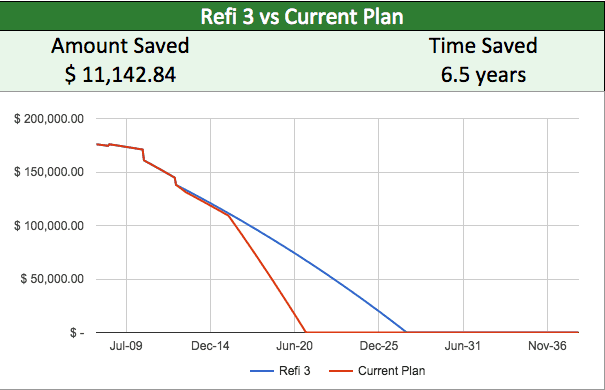
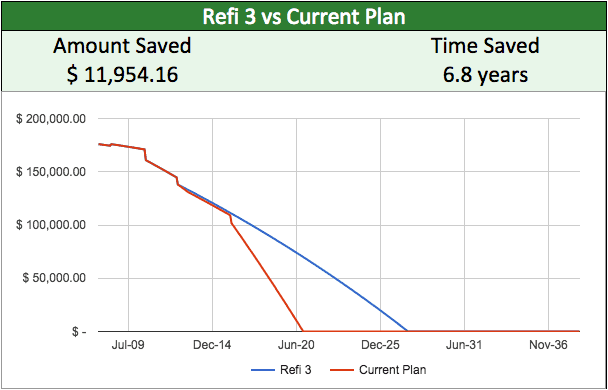
refi-post

diff --git a/_posts/2016-04-10-how-we-saved-on-our-mortgage.md b/_posts/2016-04-10-how-we-saved-on-our-mortgage.md
@@ -1,0 +1,205 @@
+---
+layout: post
+title: How we saved $160,000 on our mortgage
+author: Chris Durheim
+author_email: chris@keepthrifty.com
+categories: [mortgages]
+image: /img/old-bank.jpg
+---
+
+We bought our house in 2007 at a purchase price of $219,900. While I was pleased with the price, we had huge sticker shock when we figured out the total between our down payment and thirty years of mortgage payments was going to be __$450,000__!
+
+After putting down 20% ($44,000), we still had $405,000 left in mortgage payments to make over the next thirty years. I knew there had to be a way to bring that down, so I quickly got to work figuring out how to pay less.
+
+> Note: there's a bunch of mortgage math in this article; for a refresher on the basics, check out my [Mortgage Math 101][mortgage-math-101] post.
+
+# How does $219,900 turn into $450,000? #
+
+Here's the breakdown:
+
+- Down Payment: $43,980 (20%)
+- Mortgage: $405,470
+  - Principal payments: $175,900
+  - Interest payments: $229,570
+
+For our home, we paid down 20%, leaving us with a $175,900 mortgage.
+
+At 6.625% for a 30-year fixed mortgage, the total interest paid is $229,570. That's right - __the total interest is more than the actual purchase price of the house__.
+
+_Such is the nature of buying things you don't technically have the money for..._
+
+Because the down payment and principal payments cover the purchase price (which is fixed), the only flexible number here is the interest payment.
+
+With only that one option, I got to work using the 3 methods I had to bring that interest payment down :)
+
+# 1. Refinance with a lower rate #
+
+Refinancing is working with a bank to "re-do" your mortgage. If interest rates have dropped, you can get a new mortgage at the lower rate.
+
+_Lower rate = less interest payment every month_
+
+So, our first move on our mortgage was to refinance from a 6.625% mortgage to a 5.875% mortgage. In theory, that gets you this:
+
+![Original mortgage vs refinance: total cost drops from $405,471 to $374,585][original-vs-refinance]
+
+By refinancing to a slightly lower rate, we would save roughly $31,000 on the mortgage over the long haul and our monthly payment is lower by about $85!
+
+_More money in the long-run and more each month along the way? What's not to like?_
+
+## The reality ##
+
+Refinancing costs between a few hundred and a few thousand dollars. Because we weren't exactly rolling in cash, we ended up paying for our refinancing by putting the cost back into the mortgage.
+
+That meant that the roughly $1,500 in equity that we had earned since the start of the mortgage was gone.
+
+The other bad news? When you re-finance, you __reset the clock__ on your mortgage payments.
+
+Since we did this 10 months in to our first mortgage, we were now on track to pay our house off in 30 years and 10 months instead of just 30 years flat.
+
+Overall, the decision was still worthwhile, but not exactly glamorous. Here's what our new "mortgage journey" looked like based on 10 months in the first mortgage and our new refinance plan:
+
+![Chart showing principal paydown for original mortgage vs the first refinance; total amount paid dropped by $18,000 but my payoff date moved out 10 months][original-vs-refi-1]
+
+<div class="image-caption">Principal remaining over time</div>
+
+> Lesson: refinancing to a lower rate can be a good idea, but you have to be careful of the refinance costs and the additional time tacked on
+
+Dropping our interest payment by $18,000 was progress. This was better but definitely not good enough, so I kept looking for ways to improve our situation.
+
+# 2. Refinance with a shorter loan #
+
+Above, I covered how we refinanced with a lower interest rate as one way to improve your mortgage situation. Our next move was to refinance with a shorter term - dropping from a 30-year mortgage to a 15-year mortgage.
+
+To help explain how this works here's how things look in a refinance to a shorter term:
+
+![Original mortgage vs 15-year refinance: total cost drops from $405,471 to $277,990][original-vs-15-yr]
+
+All things equal, dropping from a 30-year mortgage to a 15-year mortgage with the same rate cuts the interest by more than half! All that, plus you get done in half the time?
+
+Of course, there's always a flip side - the monthly payment here goes up quite a bit ($1126/month to $1544/month).
+
+The good news is that reality in _this_ case is often sweeter than the theory.
+
+## The reality ##
+
+The coolest part about doing this is that rates for 15-year mortgages are typically less than those for a 30-year.
+
+In essence, you get the benefit of paying less interest because you have a shorter term _plus_ you are paying less interest because of the lower rate.
+
+We refinanced to a 15-year mortgage at 4.125% after 27 months of the 5.875% mortgage.
+
+Because of the significant rate drop (and a bit of a prepayment, which I'll cover in a minute), our monthly payment only went from $1041/month to $1200/month.
+
+Month-to-month, $160 isn't an insignificant amount but it also wasn't enough to bust our bank account.
+
+The impact was huge:
+
+![Chart showing principal paydown for first refinance vs the second refinance; total amount paid dropped by $120,000 and the payoff date moved up 12.8 years][refi1-vs-refi-2]
+
+We dropped our total cost another $120,000 and brought in our payoff date by 12.8 years.
+
+> Lesson: dropping from a 30-year to 15-year mortgage can have a huge impact on our total cost; that said, do the math and understand what the impact will be on your monthly payment
+
+## Going around again ##
+
+We got lucky that rates kept on dropping so 25 months later we took advantage and refinanced again, this time for a 15-year at 2.75%.  
+
+Similar to the other time we refinanced with just a lower rate, we saw another drop in the total cost but we reset the clock.
+
+Overall, still a positive impact in our book:
+
+![Chart showing principal paydown for second refinance vs the third refinance; total amount paid dropped by $11,500 and the payoff date moved out 2.1 years][refi2-vs-refi-3]
+
+Another $11,500 saved, but we're out another 2.1 years on our date.
+
+# 3. Making additional principal payments (prepaying) #
+
+At this point, we're at probably the lowest rate we'll see in our lifetimes and in a short timeline (at least as mortgages go).
+
+So from here, there's only one weapon left in the arsenal to help us destroy our debt - ___prepayments___.
+
+As I said earlier, we'd done this a bit along the way - on our second and third refinances, we paid some extra money in to drop our mortgage amount off the bat by $10,000 and $5,000 respectively.
+
+While that makes sense (smaller loan = less interest), many people aren't aware of an option that's available to them to do the same _without_ refinancing - making prepayments.
+
+A prepayment is simply you giving extra money to the bank now in order to knock down your principal payment even further.
+
+> __An important note here__: for most mortgages, this is allowed free-of-charge, but some have prepayment penalties - be sure to check with your lender ahead of time to understand what your mortgage's rules for prepayment are
+
+## Example ##
+
+Pretend your monthly payment of $1000 is $800 of interest and only $200 of principal early on in your loan.
+
+Let's be honest - that sucks. You just paid $1000 in hard-earned cash and 80% of it is just going off to never-never-land.
+
+In comes the pre-payment - after you make your normal monthly payment, you pay _another_ $1000 in the same month. In this case, __all__ of it goes toward principal.
+
+![BAM][bam]
+
+<div class="image-caption">Take that interest!</div>
+
+# The reality
+
+Right after we re-financed to the 2.75% mortgage, our monthly payment dropped from $1200/month to $937/month but we _pretended_ that our payment stayed the same.
+
+We told our lender to continue to withdraw $1200/month and apply the additional $263/month straight to paying down the principal.
+
+The impact on your total interest paid here depends on your interest rate - the lower the rate, the lower the impact of prepayments.
+
+For us, the bigger impact was the reduction of the time it takes to pay off the mortgage.
+
+While we only did the "pretend you're on the old payment" approach for 8 months (the financial reality of 3 kids under 3 years old set in), we saved about $1,000 and moved our mortgage date up by 3 months.
+
+We're back on this kick, but hitting hard this time. Because we've been so focused on being more frugal the last year, we've just put a $6700 prepayment in.
+
+Beyond this, whittled down our expenses by enough to set aside an extra $1,000 a month to go toward the mortgage starting next month.
+
+What's the impact of that action? We're going to save about $11,000 more in interest but perhaps more impressive, take another 6.5 years off our mortgage.
+
+Combining this with the prepayments we did for the first 8 months we got:
+
+![Chart showing principal paydown for third refinance vs current plan with prepayment; total amount paid dropped by $11,954 and the payoff date moved in 6.8 years][refi3-vs-current-plan]
+
+> Lesson: prepayments allow you to knock down your principal extra fast since every dollar of prepayment avoids interest - that said, if you've got a low interest rate they don't make quite as much of a difference
+
+# Put it all together #
+
+When you put it all together, here's what our mortgage journey looks like vs what it would have been if we had just stuck with our original mortgage:
+
+![Chart showing principal paydown for the original mortgage vs the current plan;][total-picture]
+
+Through all the moves we've made and what we have planned going forward, we will __save over $160,000__ and cut our total mortgage time down from 30 years down to 13 years and 5 months.
+
+# Looking forward #
+
+I expect some may raise questions about why we're so aggressive about paying off our mortgage rather than using the extra prepayment money for investing.
+
+The short answer is one word: __Freedom__. By putting this money into our mortgage, we have assurance of when we'll be debt free and we know that timeline is fairly soon.
+
+___Our complete debt-free date: January 1, 2021___
+
+It's crazy to think that we'll be done with our mortgage payments less than 5 years from now.
+
+The crazier thought is that we'll have an extra $1936.55 a month to figure out what to do with once we're there :)
+
+# What's your journey look like? #
+
+In the end, everyone has their own path to financial freedom. For us, stop one is complete debt elimination.
+
+Our mortgage is the last piece of that and as you can see we've been working hard to finish it once and for all as quickly as we can.
+
+What's your financial journey look like? Drop me a note in the comments below or [tweet me][tweet-me] with your thoughts.
+
+[mortgage-math-101]: {% post_url 2016-04-04-mortgage-math-101 %}
+[tweet-me]: http://www.twitter.com/chris_durheim
+
+[original-vs-refinance]: /img/original-vs-refinance.png
+[original-vs-15-yr]: /img/original-vs-15-yr.png
+
+[original-vs-refi-1]: /img/mortgage-refi1.png
+[refi1-vs-refi-2]: /img/mortgage-refi2.png
+[refi2-vs-refi-3]: /img/mortgage-refi3.png
+[refi3-vs-current-plan]: /img/mortgage-current-plan.png
+[total-picture]: /img/mortgage-total-picture.png
+
+[bam]: /img/bam.jpg

diff --git a/_posts/2016-04-04-mortgage-math-101.md b/_posts/2016-04-04-mortgage-math-101.md
@@ -233,7 +233,7 @@ At this point, you should have a good understanding of where the numbers in your
 
 More specifically, you should understand how to figure out your monthly payment and how that payment gets broken down into principal and interest.
 
-Now that we've laid the foundation, you should be all set up for my next post where  I'll show how we are on-track to save $160,000 on our mortgage through applying some cool tactics.
+Now that we've laid the foundation, you should be all set up for my next post where I'll show how we are on-track to [save $160,000 on our mortgage][save-on-mortgage] through applying some cool tactics.
 
 If you've got any questions, feel free to [tweet][tweet-me], comment below, or e-mail me at chris (at) keepthrifty (dot) com.
 
@@ -243,6 +243,7 @@ Stay tuned!
 [amortization-calculator]: https://docs.google.com/spreadsheets/d/1Odx9YVPxD-dE2Q90hBeQYqGnvYkYuKLWRm_skWrZOOk/edit?usp=sharing
 [google-mortgage-calculator]: https://www.google.com/#safe=active&q=mortgage+payment+calculator
 [tweet-me]: http://www.twitter.com/chris_durheim
+[save-on-mortgage]: {% post_url 2016-04-10-how-we-saved-on-our-mortgage %}
 
 [mortgage-formula]: /img/monthly-payment.jpg
 [amortization-table]: /img/amortization-table.png
